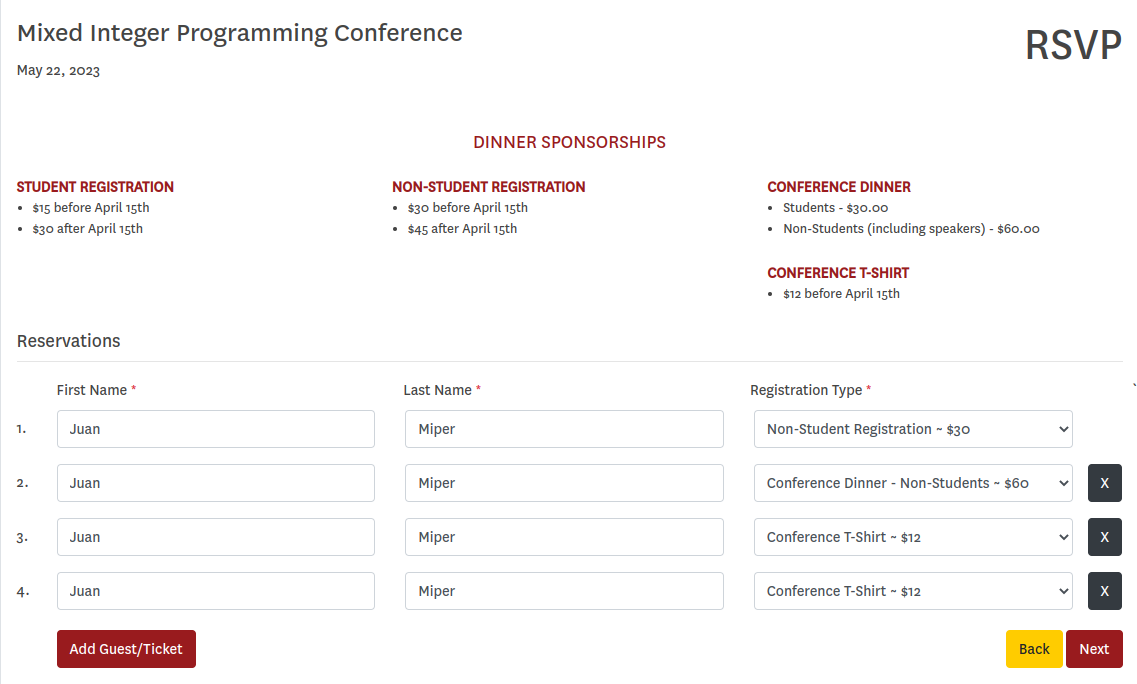
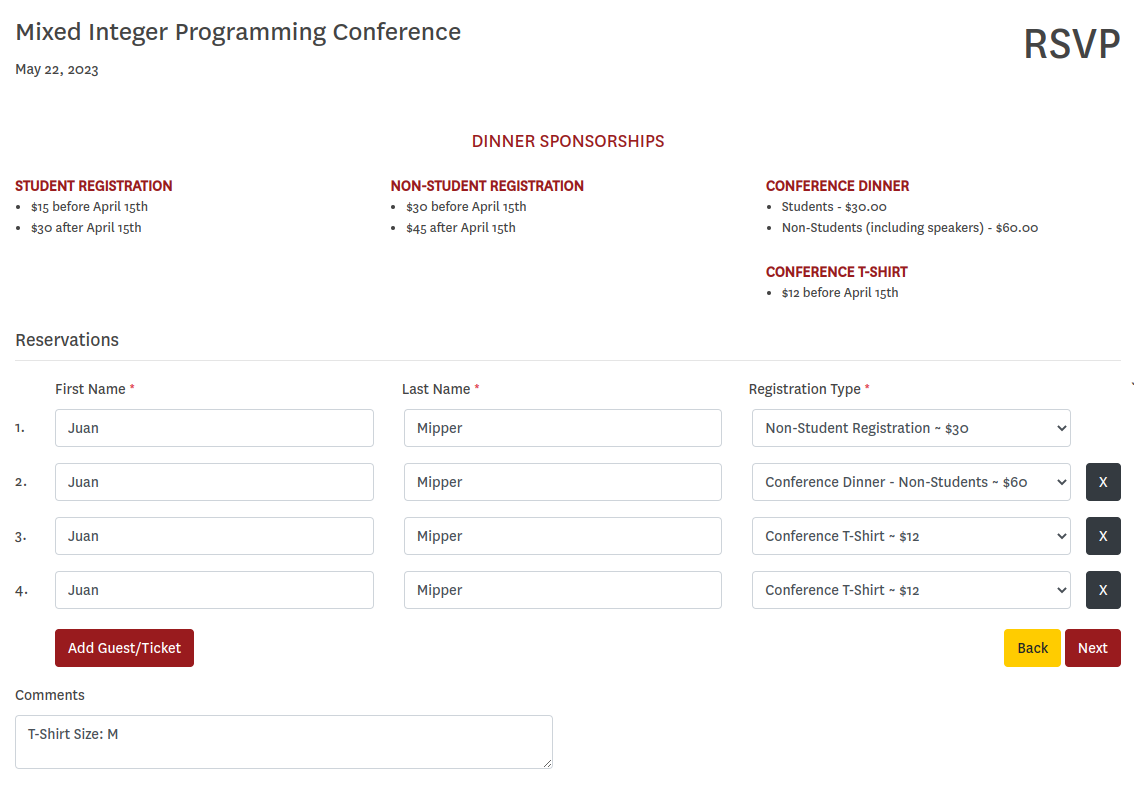
modified registration instructions

diff --git a/2023/registration.html b/2023/registration.html
@@ -53,7 +53,7 @@
           <ul>
             <li>The registration form works as a shopping cart, where <span style="color: #ff0000;"><b>you should add one registration "item"</b></span> (student or regular) unless the committee has waived your registration fee.</li>
             <li>There will be <b>commemorative T-shirts</b> for the 20th anniversary of the workshop available for purchase. You can purchase as many as like (there is no T-shirt included with the registration). </li>
-            <li><span style="color: #ff0000;">Please use the comment section to indicate your T-shirt size (S/M/L).</span></li>
+            <li><span style="color: #ff0000;"><b>Please use the comment section to indicate your T-shirt size (S/M/L).</b></span></li>
             <li>T-shirts can only be ordered until April 15th, 2023</li>
             <li>If you would like to attend the workshop dinner, do not forget to add the corresponding item.</li>
             <li>The form requires a US number, but if you don't have one, just enter (111) 111-1111.</li>
